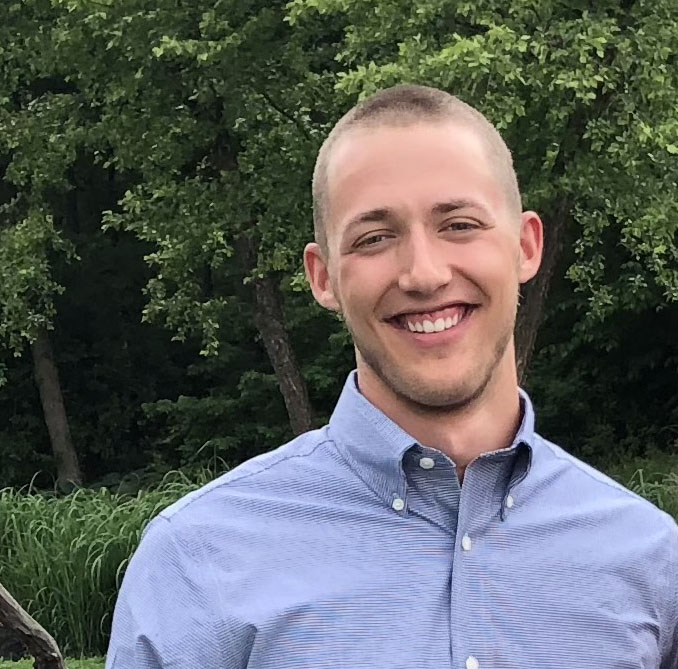
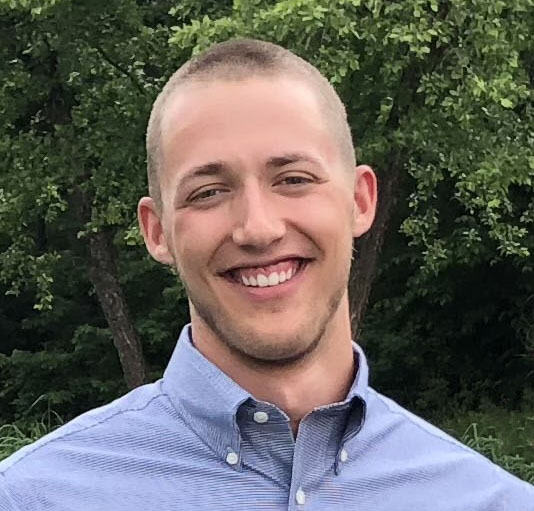
styling

diff --git a/css/styles.css b/css/styles.css
@@ -9,10 +9,19 @@
     box-sizing: border-box;
 }
 
+html {
+  width: 100%;
+  height: 100%;
+  margin: 0;
+  padding: 0%;
+  overflow-x: hidden;
+}
+
 body{
-  background-color: black;
-  max-width: 100%;
-  overflow: hidden;
+  margin: 0 auto;
+  width: 1200px;
+  background-color: #222;
+  width: 100%;
 }
 
 /* containers */
@@ -27,12 +36,13 @@ body{
   width: 100%;
 }
 
-#sh-container{
+
+
+.sk-container {
   display: flex;
   width: 100%;
-  height: 1200px;
+  height
 }
-
 
 
 /* =====================================================
@@ -76,7 +86,7 @@ body{
 
 /* hamburger menu */
 .toggle-button {
-  position: absolute;
+  position: relative;
   top: .75rem;
   right: 1rem;
   display: none;
@@ -135,7 +145,7 @@ body{
     /* creating animated cyan color underline on navigation links    */
 #nav ul li a:after{
   content: "";
-  position: absolute;
+  position: relative;
   background-color: black;
   height: 0.5px;
   width: 0;
@@ -157,7 +167,7 @@ body{
 }
 .nvg:after{
     content: ""!important;
-    position: absolute!important;
+    position: relative!important;
     background-color: black!important;
     height: 0.5px!important;
     width: 100%!important;
@@ -218,22 +228,33 @@ body{
    =========================================================== */
 
 /* container */
-.showcase {
-  height: 100%;
-}
+
 
 #box1{
-  position: absolute;
+  position: relative;
   top: 250px;
   left: 45px;
+  width: 100%;
   color: white;
   z-index: 4;
+
+}
+
+.box2 {
+  position: relative;
+  display: flex;
+  width: 100%;
+  top: 250px;
+  left: 45px;
+
+
 }
 
 /* logo styling */
 .logo-container {
   display: flex;
   position: relative;
+
 }
 
 .logo {
@@ -241,8 +262,9 @@ body{
   height: 160px;
   position: relative;
   left: 31.9rem;
-  top: -16rem;
+  top: -23rem;
   clip-path: polygon(25% 0%, 75% 0%, 100% 50%, 85% 100%, 15% 100%, 0% 50%);
+
 }
 
 /* copy */
@@ -250,13 +272,16 @@ body{
   color: #ff6101;
   position: relative;
   left: 0;
+  top: -8rem;
   font-size: 42px;
   font-family: 'Aquire', sans-serif;
 }
 
 #webdev {
   position: relative;
-  top: 1rem;
+  left: 0;
+  top: -7rem;
+  width: 500px;
   color: #565656;
   font-size: 28px;
   font-weight: bolder;
@@ -265,21 +290,22 @@ body{
 
 #para1{
   position: relative;
-  left: 3px;
-  top: 2rem;
+  left: 0;
+  top: -6rem;
   color: white;
   width: 42%;
   font-family: 'Segoe UI', Tahoma, Geneva, Verdana, sans-serif;
+  font-size: 17px;
+  line-height: 1.5;
 }
 
 
 /* button styling */
 #btncontact{
-  position: absolute;
-  top: 22rem;
+  position: relative;
+  top: -4rem;
   width: 141px;
   height: 43px;
-  margin: 4px;
   color: black;
   border: none;
   font-family: 'Lato', cursive;
@@ -289,9 +315,9 @@ body{
 }
 
 #btnknow{
-  position:absolute;
-  top: 22rem;
-  left: 10rem;
+  position:relative;
+  top: -4rem;
+  left: 2rem;
   width: 141px;
   height: 43px;
   margin: 4px;
@@ -319,20 +345,15 @@ body{
 .profile img {
   position: relative;
   height: 25rem;
-  left: 54rem;
-  top: 8rem;
-  -webkit-filter: grayscale(100%); /* Safari 6.0 - 9.0 */
-  filter: grayscale(10%);
+  left: 51rem;
+  top: -29rem;
+  clip-path: polygon(10% 1%, 100% 0%, 90% 100%, 0 100%);
+
 }
 
-.vl1 {
-  border-left: 6px solid #ff6101;
-  height: 420px;
-  position: absolute;
-  left: 50%;
-  margin-left: -3px;
-  top: 0;
-}
+
+
+
 
 /* ===========================================================
                           FOOTER            

diff --git a/index.html b/index.html
@@ -60,27 +60,36 @@
 <!-- =====================================================-->
 <!--                        SHOWCASE                      -->
 <!-- =====================================================-->
-<section id="sh-container" class="showcase">
     <div id="box1">
         <img class="logo" src="assets/img/tyger.jpg" alt="">
         
+    </div>
+    <div id="box2">
         <span id="te">Ty Enger</span>
         <div id="webdev">Front-End Web Developer</div>
-        <div id="para1">Systems integrator by day, web developer by night. With 1 year of experience, I have 
+        <div id="para1">Systems integrator by day, web developer by night. Through my first year of experience, I have 
             honed my skills in HTML, CSS, and began the pursuit of mastering Javascript. This website is a showcase 
-            of the freelance, personal, and passion projects I've been involved in. 
+            of the professional, personal, and passion projects I've been involved in. 
         </div>
-        <button id="btncontact" type="button">CONTACT</button>
+        <button id="btncontact" href="#" type="button">CONTACT</button>
         <button id="btnknow" type="button">LEARN MORE</button>
+        <div class="profile">
+            <img class="profile" src="./assets/img/prof2.jpg" alt="">
+        </div>
     </div>
     
-    <div class="profile">
-        <img class="profile" src="./assets/img/prof2.jpg" alt="">
+    
+
+<!-- =====================================================-->
+<!--                        Skills                        -->
+<!-- =====================================================-->
+<section id="sk-container" class="skills">
+    <div id="box1">
+        
     </div>
-    <div class="vl1"></div>
-
+    
+    
 </section>
-
 
 
 <!-- Bootstrap core JS-->
